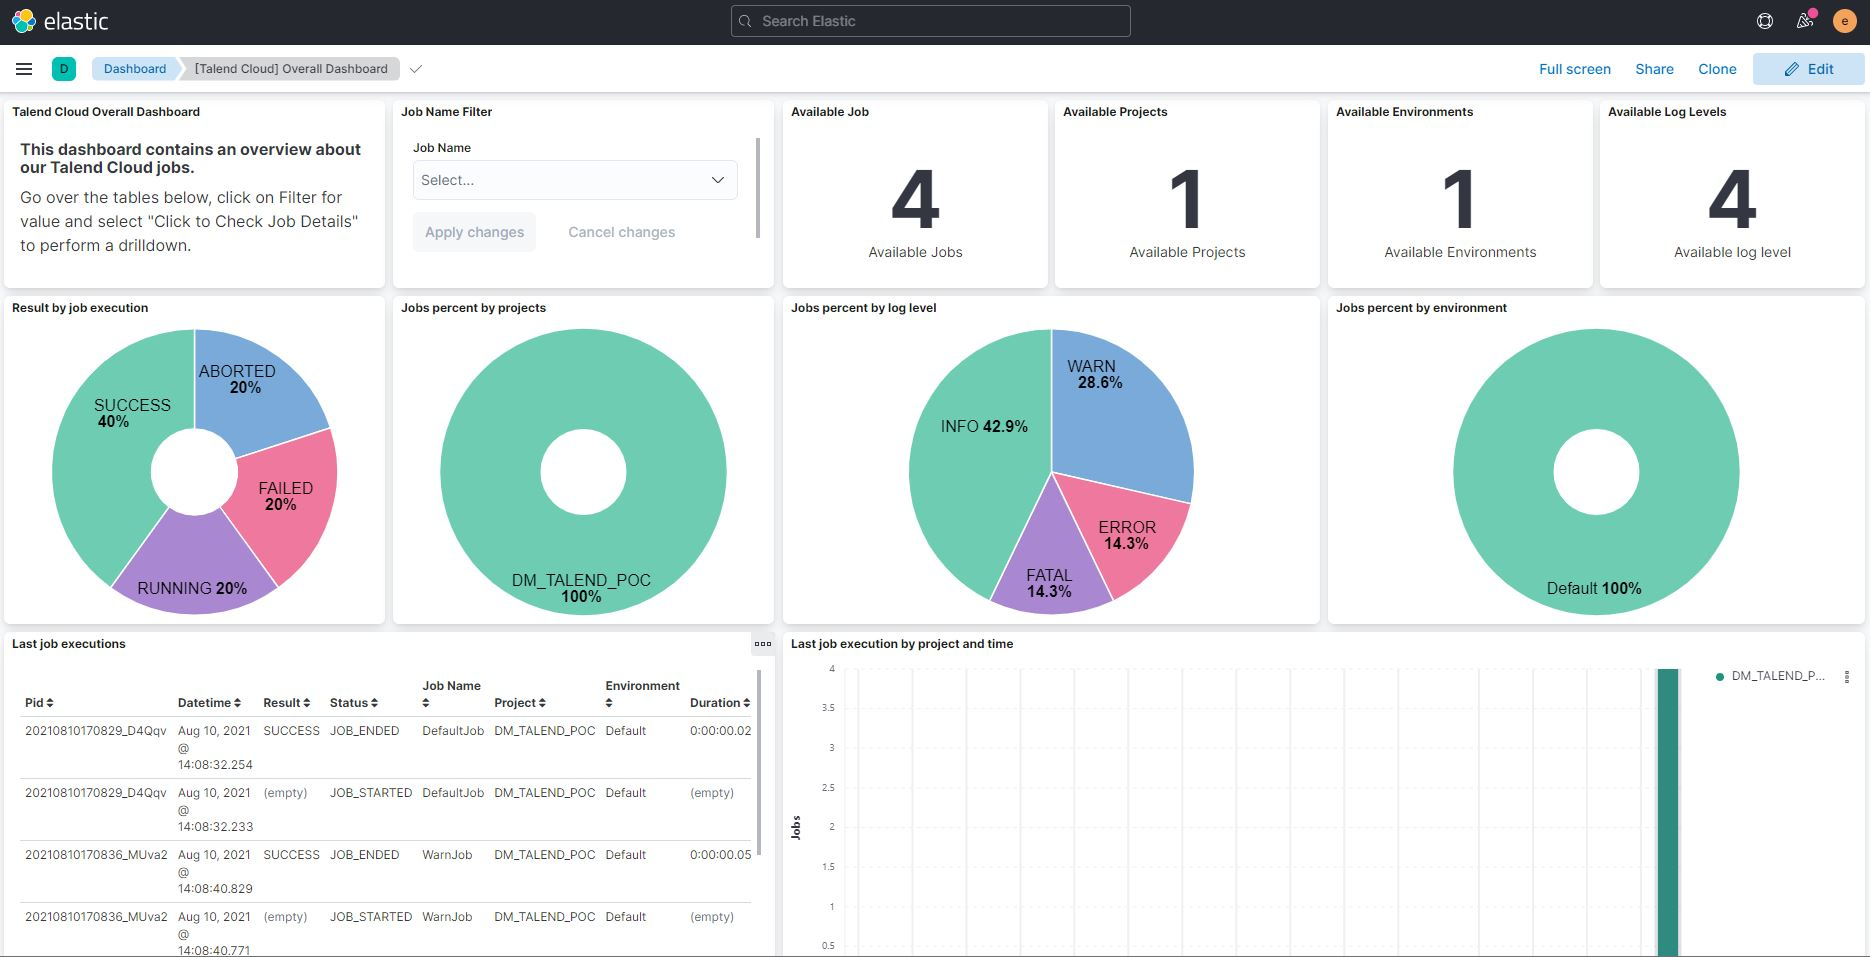
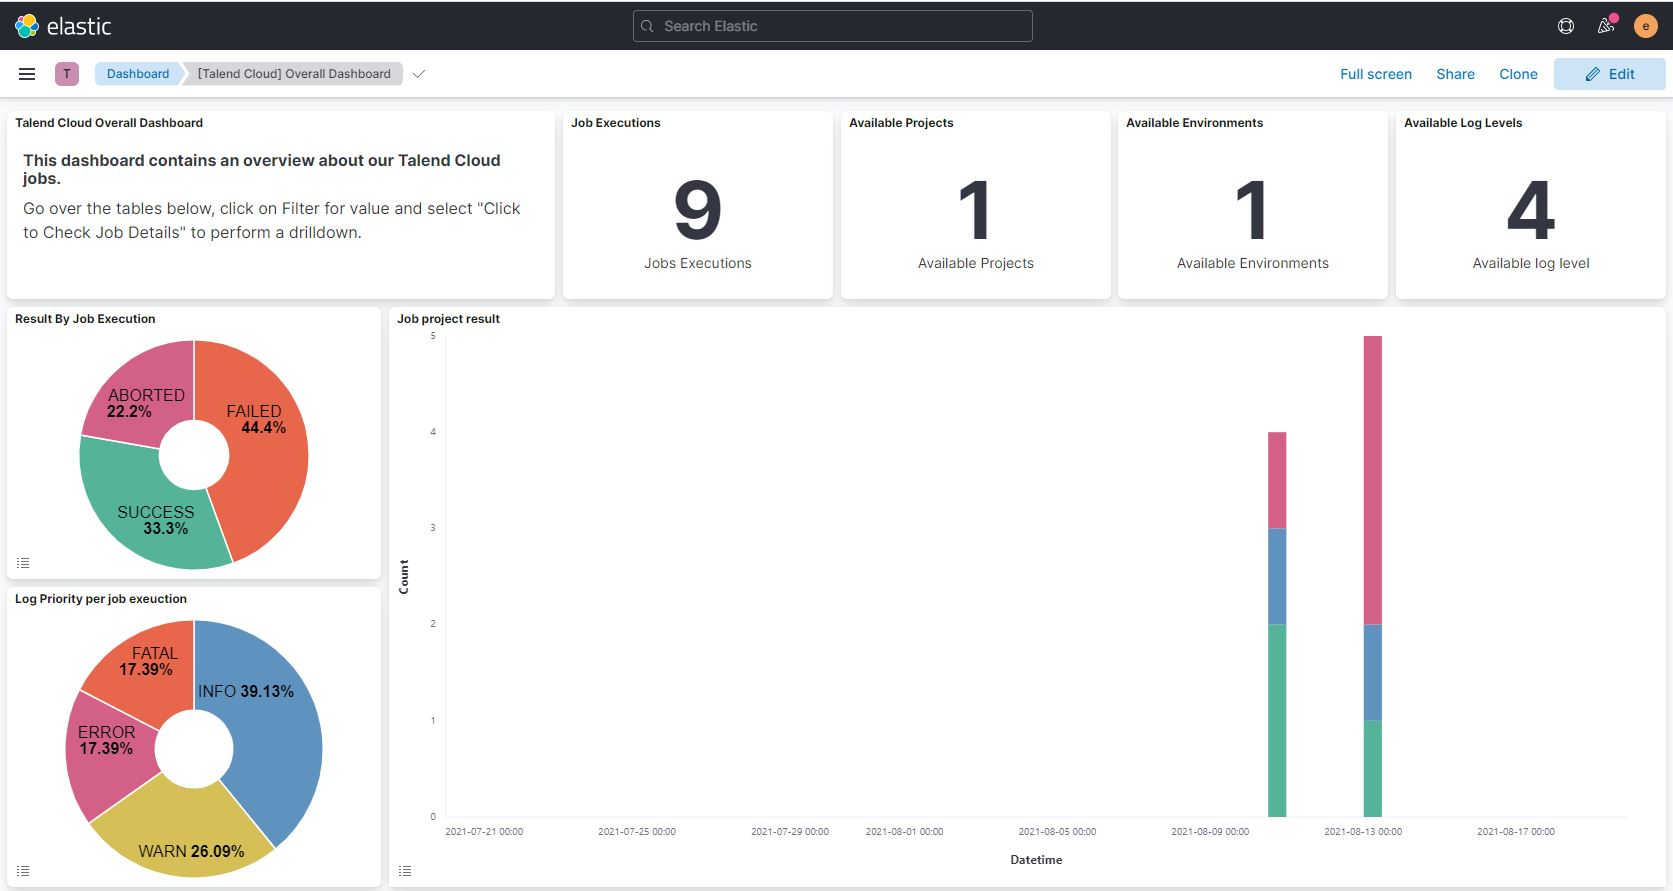
Kibana Dashboards version 2 upgrade, new visualization and dashboards has been created.

diff --git a/README.md b/README.md
@@ -46,19 +46,33 @@ Navigate to the agent folder Right click on the file uninstall.bat **RUN AS ADMI
 
 ## Some Kibana Dashboards Screenshots
 Talend Logs Summary Dashboard:
+
 ![Talend Summary Dashboard](img/SummaryDashboard.JPG)  
 
+Talend Logs Summary Dashboard 2:
+
+![Talend Summary Dashboard](img/SummaryDashboard2.JPG)  
+
+Talend Logs Summary Dashboard 3:
+
+![Talend Summary Dashboard](img/SummaryDashboard3.JPG)
+
 Talend Job Details Dashboard:
-![Talend Job Details](img/JobDetailsDashboard.JPG)  
 
-Talend Studio logs (Inspect):
-![Talend Studio Details](img/JobDetailsTalendStudio.JPG)  
+![Talend Job Details](img/JobDetailsDashboard.JPG) 
 
-Talend Cloud logs:
-![Talend Cloud Details](img/JobDetailsTalendCloudTask.JPG)  
+Talend Job Details Dashboard 2:
+
+![Talend Job Details](img/JobDetailsDashboard2.JPG)  
+
+Talend Job Details Dashboard 3:
+
+![Talend Job Details](img/JobDetailsDashboard3.JPG)  
+
 
 ## Kibana Recomendation
-I Personally prefer the legacy kibana datatable visualization mode, it's easier to see big column texts.  
+I Personally prefer the legacy kibana datatable visualization mode, it's easier to see bigger text columns but it's totally up to you.
+
 You can enable the kibana legacy datatable visualization by opening yout kibana/config/kibana.yml file and adding the following line in the end of the file:
 ```
 vis_type_table.legacyVisEnabled: true
